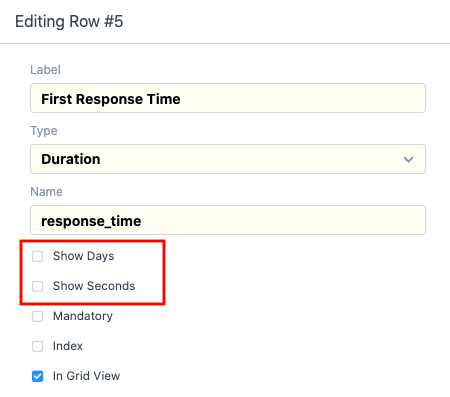
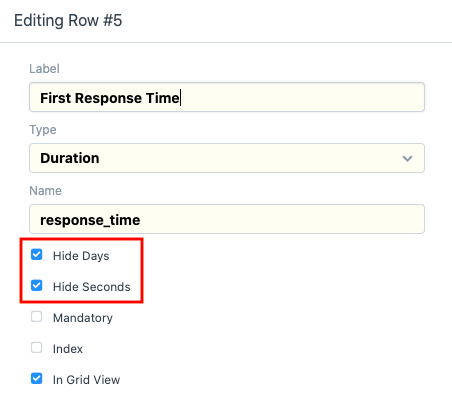
fix: update duration fieldtype docs (#107)

diff --git a/erpnext_documentation/www/docs/user/manual/en/customize-erpnext/articles/field-types.md b/erpnext_documentation/www/docs/user/manual/en/customize-erpnext/articles/field-types.md
@@ -213,11 +213,11 @@ You can use the Duration field if you want to define a timespan.
 
 <img alt="Field Types" class="screenshot" src="{{docs_base_url}}/assets/img/customize/duration-fieldtype.png">
 
-If you don't want to track duration in terms of days or seconds, you can uncheck "Show Days" and "Show Seconds" options respectively in your Form.
+If you don't want to track duration in terms of days or seconds, you can enable "Hide Days" and "Hide Seconds" options respectively in your Form.
 
 <img alt="Field Types" class="screenshot" src="{{docs_base_url}}/assets/img/customize/duration-options.png">
 
-For example, here in the SLA DocType, option is present to choose hours and minutes.
+For example, here in the SLA DocType, option is present to choose hours and minutes only.
 <img alt="Field Types" class="screenshot" src="{{docs_base_url}}/assets/img/customize/duration-options-2.png">
 
 {next}
